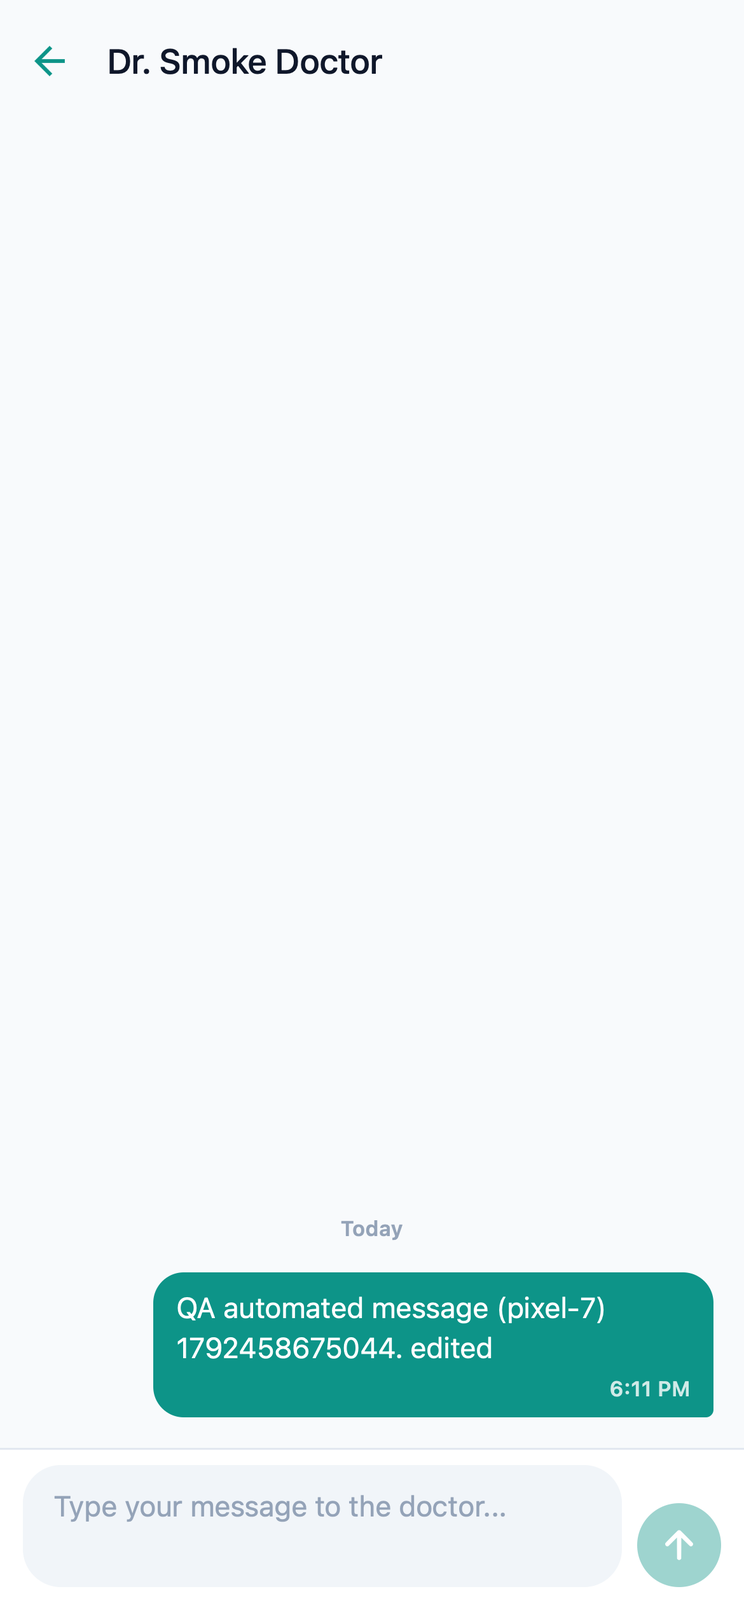
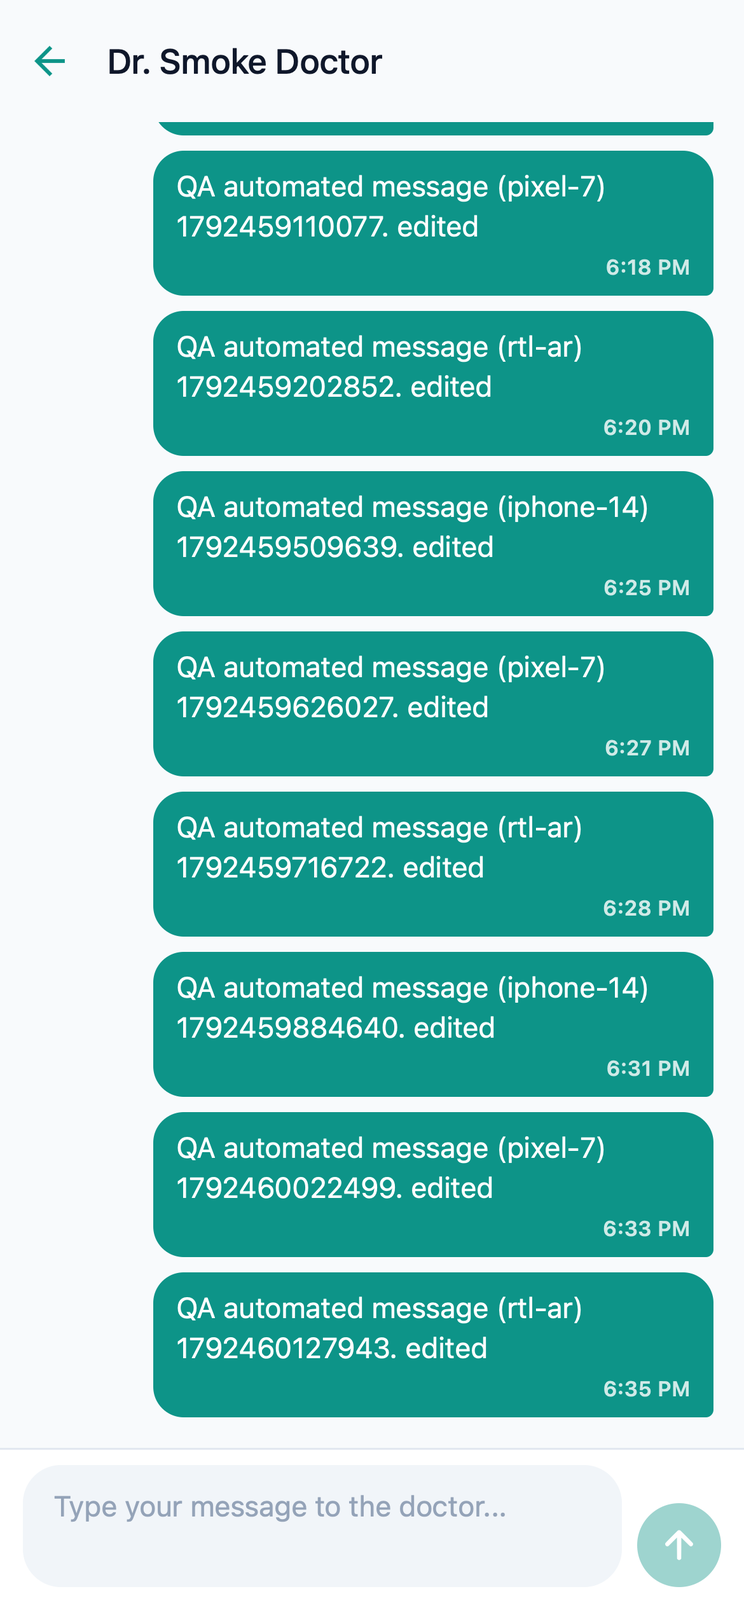
test(mobile-e2e): final full run at c843c4c; report MB-011..MB-016, verify MB-006..MB-009

diff --git a/mobile-e2e/tests/conversation.spec.ts b/mobile-e2e/tests/conversation.spec.ts
@@ -72,10 +72,38 @@ test.describe('Conversation', () => {
 
     await longPress(page, editedBubble);
     await dialog.getByTestId('dialog-btn-1').click();
-    await expect(editedBubble).toHaveCount(0, { timeout: 60_000 });
+    await expect(editedBubble).toHaveCount(0);
+    await expect(screen.getByTestId('btn-undo-delete')).toHaveCount(0, { timeout: 60_000 });
     await page.reload();
-    await expect(page.getByTestId('screen-conversation')).toBeVisible({ timeout: 60_000 });
-    await expect(page.getByTestId('chat-message-own').filter({ hasText: edited })).toHaveCount(0, { timeout: 30_000 });
+    await expect(page.locator('[data-testid^="chat-message-"]').first()).toBeVisible({ timeout: 60_000 });
+    await expect(page.getByTestId('chat-message-own').filter({ hasText: edited })).toHaveCount(0);
+  });
+
+  test('MB-015: a delete still commits when leaving the thread during the undo window', async ({ page }, testInfo) => {
+    test.setTimeout(240_000);
+    const screen = await openFirstConversation(page);
+    const conversationUrl = page.url();
+    const body = `QA undo-window message (${testInfo.project.name}) ${Date.now()}`;
+    await screen.getByTestId('input-message').fill(body);
+    await screen.getByTestId('btn-send-message').click();
+    const bubble = () => page.getByTestId('chat-message-own').filter({ hasText: body });
+    await expect(bubble()).toBeVisible({ timeout: 60_000 });
+
+    await longPress(page, bubble());
+    await page.getByTestId('dialog').getByTestId('dialog-btn-1').click();
+    await expect(bubble()).toHaveCount(0);
+    await page.goBack();
+    await expect(page.getByTestId('screen-messages')).toBeVisible();
+    await page.waitForTimeout(6_000);
+    await page.goto(conversationUrl);
+    await expect(page.locator('[data-testid^="chat-message-"]').first()).toBeVisible({ timeout: 60_000 });
+    const leftover = await bubble().count();
+    if (leftover > 0) {
+      await longPress(page, bubble());
+      await page.getByTestId('dialog').getByTestId('dialog-btn-1').click();
+      await expect(page.getByTestId('btn-undo-delete')).toHaveCount(0, { timeout: 60_000 });
+    }
+    expect(leftover, 'MB-015: the message the patient deleted came back after leaving the thread').toBe(0);
   });
 
   test('unknown conversation id shows a not-found state without a composer (MB-011)', async ({ page }) => {

diff --git a/mobile-e2e/tests/settings.spec.ts b/mobile-e2e/tests/settings.spec.ts
@@ -80,18 +80,30 @@ test.describe('Settings', () => {
     await expect(screen.getByTestId('message-success')).toBeVisible({ timeout: 30_000 });
   });
 
-  test('sign out: cancel keeps the session, confirm returns to sign-in', async ({ page }) => {
+  test('sign out: cancel keeps the session, confirm returns to sign-in and clears cached health data', async ({ page, consoleGuard }, testInfo) => {
+    consoleGuard.allow(/status of 401/);
     await page.route('**/auth/v1/logout**', (route) => route.fulfill({ status: 204, body: '' }));
+    let signedOut = false;
+    const lateRequests: string[] = [];
+    page.on('response', (response) => {
+      if (signedOut && response.status() === 401 && response.url().includes('/rest/v1/')) lateRequests.push(new URL(response.url()).pathname);
+    });
+    await openScreen(page, '/', 'screen-dashboard');
+    await waitForLoaded(page);
     const screen = await openScreen(page, '/settings', 'screen-settings');
     await waitForLoaded(page);
+    expect(await page.evaluate(() => Object.keys(localStorage).some((key) => key.startsWith('ceenaix.cache.v1.')))).toBe(true);
     await screen.getByTestId('btn-sign-out').click();
     const dialog = page.getByTestId('dialog');
     await expect(dialog).toBeVisible();
     await dialog.getByTestId('dialog-btn-cancel').click();
     await expect(screen).toBeVisible();
     await screen.getByTestId('btn-sign-out').click();
+    signedOut = true;
     await dialog.getByTestId('dialog-btn-0').click();
     await expect(page.getByTestId('screen-sign-in')).toBeVisible({ timeout: 60_000 });
+    await expect.poll(() => page.evaluate(() => Object.keys(localStorage).filter((key) => key.startsWith('ceenaix.cache.v1.') || key.startsWith('sb-')))).toEqual([]);
+    if (lateRequests.length > 0) testInfo.annotations.push({ type: 'MB-014', description: `401 after sign-out: ${lateRequests.join(', ')}` });
     await page.goto('/records');
     await expect(page.getByTestId('screen-sign-in')).toBeVisible({ timeout: 60_000 });
   });

diff --git a/mobile-e2e/tests/records.spec.ts b/mobile-e2e/tests/records.spec.ts
@@ -1,4 +1,4 @@
-import { commonScreenChecks, expect, failTables, headerBack, openScreen, test, waitForLoaded } from '../support/fixtures';
+import { commonScreenChecks, expect, failTables, headerBack, isRtlProject, openScreen, test, waitForLoaded } from '../support/fixtures';
 
 test.describe('Medical records', () => {
   test('renders category counts, filter and empty/list state', async ({ page }, testInfo) => {
@@ -8,6 +8,7 @@ test.describe('Medical records', () => {
     await expect(screen.locator('[data-testid^="record-card-"]').first().or(screen.getByTestId('state-empty-records'))).toBeVisible();
     await expect(headerBack(page)).toHaveAccessibleName(/back|رجوع/i);
     await expect(headerBack(page)).not.toHaveAccessibleName(/\(tabs\)/);
+    if (isRtlProject(testInfo)) await expect(headerBack(page), 'MB-016: Arabic back button name should be fully Arabic').not.toHaveAccessibleName(/back/i);
     await commonScreenChecks(page, testInfo, screen, 'records');
   });
 

diff --git a/mobile-e2e/tests/insurance.spec.ts b/mobile-e2e/tests/insurance.spec.ts
@@ -33,6 +33,7 @@ test.describe('Insurance', () => {
     const screen = await openScreen(page, '/insurance', 'screen-insurance');
     await waitForLoaded(page);
     const empty = screen.getByTestId('state-empty-insurance');
+    await expect(screen.getByTestId('card-insurance-coverage').or(empty).first()).toBeVisible({ timeout: 60_000 });
     test.skip((await empty.count()) === 0, 'smoke patient has an insurance plan');
     await empty.getByRole('button').click();
     await expect(page.getByTestId('screen-profile')).toBeVisible();

diff --git a/docs/mobile/test-report.md b/docs/mobile/test-report.md
@@ -4,9 +4,9 @@ QA branch: `mobile-patient-parity-tests` (tracks builder branch `mobile-patient-
 Harness: Playwright against the Expo web export (`mobile/dist`), in `mobile-e2e/` (see `mobile-e2e/README.md`).
 Projects: `iphone-14` (WebKit, 390x844), `pixel-7` (Chromium, 412x915), `rtl-ar` (Chromium, 412x915, locale `ar-AE`).
 
-Last updated: 2026-10-19. Latest builder commit tested: `dc8a230`. Spec totals below cover the auth and tab batch; appointment flows add 14 tests and pre-visit adds 3 per project (all pass except MB-010).
+Last updated: 2026-10-19. **Final run at builder commit `c843c4c` (`BUILD STATUS: COMPLETE`)**: every screen in `docs/mobile/test-handoff.md` was tested at its latest commit, and the full suite was run once on all three projects.
 
-Every test also fails on unexpected console errors or page errors, and every screen spec checks document direction (LTR, or RTL in `rtl-ar`), no horizontal overflow at phone width, and accessible names on interactive controls. Screenshots are in `mobile-e2e/screenshots/{iphone-14,rtl-ar}/`.
+Every test also fails on unexpected console errors or page errors, and every screen spec checks document direction (LTR, or RTL in `rtl-ar`), no horizontal overflow at phone width, and accessible names on interactive controls. Screenshots are in `mobile-e2e/screenshots/{iphone-14,rtl-ar}/` (one per screen) and `mobile-e2e/screenshots/mb-*.png` (bugs).
 
 Environment note: the DEV Supabase project is sometimes slow (2.5–3 s even for `/auth/v1/health`, with individual queries taking 5–10 s at peak). Tests use generous timeouts; this is not treated as an app defect.
 
@@ -14,36 +14,82 @@ Environment note: the DEV Supabase project is sometimes slow (2.5–3 s even for
 
 | Screen | Commit tested | Result | Specs | Notes |
 |---|---|---|---|---|
-| App boot (web) | dc8a230 | pass | all | MB-001, MB-002 and MB-003 fixed-verified. Cold start is blank (MB-008) |
-| Sign in (email + phone OTP mode) | dc8a230 | pass | `tests/auth.spec.ts` | MB-005 fixed-verified. Wrong password, validation, password toggle, links, signed-out redirect |
-| Forgot password | dc8a230 | pass | `tests/auth.spec.ts` | Reset endpoint mocked (no real email) |
-| Phone OTP | dc8a230 | pass | `tests/auth.spec.ts` | SMS endpoints mocked. Wrong code, resend cooldown, digits stay LTR in Arabic |
-| Sign up (email + phone) | dc8a230 | pass | `tests/auth.spec.ts` | Sign-up endpoint mocked (no account created). Every validation step, back, check-email state |
-| Dashboard | dc8a230 | pass | `tests/dashboard.spec.ts` | Real data (greeting, care team: Dr. Smoke Doctor), quick actions, tabs, skeleton, offline banner from cache, error + retry |
-| Appointments (Visits) | dc8a230 | fail (MB-007) | `tests/appointments.spec.ts` | Status/type segments, past virtual visit 901, detail push and back, book, skeleton, error + retry |
-| AI assistant | dc8a230 | pass | `tests/assistant.spec.ts` | Consent allow/deny, context indicator, real `ai-chat` reply tagged "AI-generated", history sheet, new chat. RTL bidi issue (MB-009) |
-| Messages | dc8a230 | pass | `tests/messages.spec.ts` | 1 conversation (builder QA thread), open thread and back, error state. Search only appears with more than 3 threads (by design, skipped) |
-| My health hub | dc8a230 | fail (MB-006) | `tests/health.spec.ts` | All 9 rows open the right screen and back returns |
-| Appointment detail | dc8a230 | pass | `tests/appointment-flows.spec.ts` | Past visit 901 (no cancel/reschedule, follow-up message), upcoming booked visit (reschedule/cancel/pre-visit section), deep-link back, not-found, error + retry |
-| Video visit lobby | dc8a230 | pass (web fallback) | `tests/appointment-flows.spec.ts` | Web shows the "requires the mobile app" state; close works. LiveKit call is native-only, not covered |
-| Book appointment | dc8a230 | pass | `tests/appointment-flows.spec.ts` | Doctor search + empty state, Next gating per step, back, real booking with "Doctor Test" (each project uses a different date). Dr. Smoke Doctor has no published availability in DEV |
-| Reschedule | dc8a230 | pass | `tests/appointment-flows.spec.ts` | Doctor step skipped, reason prefilled, new slot confirmed |
-| Cancel appointment | dc8a230 | pass | `tests/appointment-flows.spec.ts` | Reason required, keep returns, confirm moves the visit to Cancelled. Each run cancels its own booking |
-| Pre-visit intake | dc8a230 | fail (MB-010) | `tests/pre-visit.spec.ts` | DEV has no assessment for the smoke patient and no bookable doctor has a template, so the assessment row is mocked (writes stubbed, AI summary real). Every question type, required gating, back, review, complete, close confirm, not-found |
-| Medical records + record form | c843c4c | pass | `tests/records.spec.ts` | Counts, filter, action sheet (3 types), required-field validation for each category, add/edit/remove a condition (soft delete), error state. Search only appears with more than 5 records (by design). Back button is named "Go back" |
-| Conversation, labs, prescriptions, pharmacy picker, imaging, documents, upload, insurance, notifications, profile, settings, reset password | — | in progress | — | Next batch |
+| App boot (web) | c843c4c | pass | all | MB-001, MB-002, MB-003 and MB-008 fixed-verified: cold start paints a boot screen |
+| Sign in (email + phone OTP mode) | c843c4c | pass | `tests/auth.spec.ts` | MB-005 fixed-verified. Wrong password, validation, password toggle, links, signed-out redirect |
+| Forgot password | c843c4c | pass | `tests/auth.spec.ts` | Reset endpoint mocked (no real email) |
+| Reset password | c843c4c | pass | `tests/reset-password.spec.ts` | Without a recovery session: "request a new link" opens Forgot password. Setting a new password needs a real recovery link (not covered) |
+| Phone OTP | c843c4c | pass | `tests/auth.spec.ts` | SMS endpoints mocked. Wrong code, resend cooldown, digits stay LTR in Arabic |
+| Sign up (email + phone) | c843c4c | pass | `tests/auth.spec.ts` | Sign-up endpoint mocked (no account created). Every validation step, back, check-email state |
+| Onboarding | c843c4c | pass | `tests/role-gates.spec.ts` | Reached by rewriting the profile response to `profile_completed = false` (upserts stubbed). Routes are gated, name and terms validation, save lands on the dashboard |
+| Patient only | c843c4c | pass | `tests/role-gates.spec.ts` | Reached by rewriting the role to `doctor`: gate on every route, web-portal link, sign out. Failed profile lookup shows `state-profile-error`, and retry recovers |
+| Dashboard | c843c4c | pass | `tests/dashboard.spec.ts` | Real data (greeting, care team: Dr. Smoke Doctor), quick actions, tabs, skeleton, boot screen (MB-008), offline banner from cache, error + retry |
+| Appointments (Visits) | c843c4c | pass | `tests/appointments.spec.ts` | MB-007 fixed-verified. Status/type segments, past virtual visit 901, detail push and back, book, skeleton, error + retry |
+| Appointment detail | c843c4c | pass | `tests/appointment-flows.spec.ts` | Past visit 901 (no cancel/reschedule, follow-up message), upcoming booked visit (reschedule/cancel/pre-visit section), deep-link back, not-found, error + retry |
+| Video visit lobby | c843c4c | pass (web fallback) | `tests/appointment-flows.spec.ts` | Web shows the "requires the mobile app" state; close works. LiveKit call is native-only, not covered |
+| Book appointment | c843c4c | pass | `tests/appointment-flows.spec.ts` | Doctor search + empty state, Next gating per step, back, real booking with "Doctor Test" (each project uses a different date). Dr. Smoke Doctor has no published availability in DEV |
+| Reschedule | c843c4c | pass | `tests/appointment-flows.spec.ts` | Doctor step skipped, reason prefilled, new slot confirmed |
+| Cancel appointment | c843c4c | pass | `tests/appointment-flows.spec.ts` | Reason required, keep returns, confirm moves the visit to Cancelled. Each run cancels its own booking |
+| Pre-visit intake | c843c4c | fail (MB-010) | `tests/pre-visit.spec.ts` | DEV has no assessment for the smoke patient and no bookable doctor has a template, so the assessment row is mocked (writes stubbed, AI summary real). Every question type, required gating, back, review, complete, close confirm, not-found |
+| AI assistant + history | c843c4c | pass | `tests/assistant.spec.ts` | MB-009 fixed-verified. Consent allow/deny, context indicator, real `ai-chat` reply tagged "AI-generated", history sheet, new chat |
+| Messages | c843c4c | pass | `tests/messages.spec.ts` | 1 conversation, open thread and back, error state. Search only appears with more than 3 threads (by design, skipped) |
+| Conversation | c843c4c | fail (MB-011, MB-015) | `tests/conversation.spec.ts` | Real send, edit (long-press), delete with undo, and delete; English text is LTR in Arabic (MB-009 verified here). An unknown thread id looks like an empty, writable thread (MB-011). Leaving during the undo window cancels the delete (MB-015) |
+| My health hub | c843c4c | pass | `tests/health.spec.ts` | MB-006 fixed-verified (back is "Go back"). All 9 rows open the right screen and back returns |
+| Medical records + record form | c843c4c | pass (RTL: MB-016) | `tests/records.spec.ts` | Counts, filter, action sheet (3 types), required-field validation for each category, add/edit/remove a condition (soft delete), error state. Search only appears with more than 5 records (by design) |
+| Lab results | c843c4c | pass (empty only) | `tests/lab-results.spec.ts` | Segments with `aria-selected`, empty states, back, error + retry. The smoke patient has no lab orders, so lab detail and "Explain with AI" are not reachable |
+| Prescriptions | c843c4c | pass | `tests/prescriptions.spec.ts` | Segments, empty states, add and remove a self-reported medicine (save gating, cancel/confirm dialog), back, error + retry. No prescriptions in DEV, so prescription detail and the pharmacy picker are not reachable |
+| Imaging | c843c4c | pass (empty only) | `tests/imaging.spec.ts` | Segments, empty state, back, error + retry. No studies in DEV, so imaging detail is not reachable |
+| Documents | c843c4c | fail (MB-013) | `tests/documents.spec.ts` | Segments, list, error + retry. Real upload (iPhone run only) works; removing fails on RLS (MB-013, backend) |
+| Document upload | c843c4c | pass (MB-012 web-only) | `tests/documents.spec.ts` | Camera row hidden on web, file chooser, save gating, files over 20 MB rejected, title prefilled from the file name. No close control on web (MB-012) |
+| Insurance | c843c4c | pass | `tests/insurance.spec.ts` | No-plan state and its Profile action, claims list, status chips, benefits, error + retry. Note: cancelled visits are listed as "Denied" claims and counted in "You paid"; the web app does the same (parity, not filed) |
+| Notifications | c843c4c | pass | `tests/notifications.spec.ts` | Log with All/Unread, mark all read (button hidden when nothing is unread, by design), dashboard bell and back, error + retry. Some notification bodies mix Arabic dates into English text; they are generated by the backend trigger in the language of the session that booked |
+| Profile | c843c4c | pass | `tests/profile.spec.ts` | All sections render real data; edit then cancel discards; empty name blocks save; save keeps the values; dashboard avatar and back |
+| Settings | c843c4c | pass | `tests/settings.spec.ts` | Language switch shows the restart dialog and flips `dir` (then switches back), theme dark/system, email/SMS/pharmacy toggles persist across reload and are restored (iPhone run only), reset-password email (mocked), sign out (cancel/confirm, logout mocked) clears session and cached health data. Intermittent late 401 after sign-out (MB-014) |
 
-### Spec totals at `dc8a230` (auth + tab screens)
+### Final spec totals at `c843c4c` (full suite, all three projects)
+
+Each project runs 99 tests (plus one shared sign-in setup).
 
 | Project | Passed | Failed | Skipped |
 |---|---|---|---|
-| iphone-14 | 34 | 3 (MB-006, MB-007, MB-008) | 2 |
-| pixel-7 | 34 | 3 (MB-006, MB-007, MB-008) | 2 |
-| rtl-ar | 35 | 3 (MB-006, MB-007, MB-008) | 1 |
+| iphone-14 | 93 | 4 (MB-010, MB-011, MB-013, MB-015) | 2 |
+| pixel-7 | 92 | 3 (MB-010, MB-011, MB-015) | 4 |
+| rtl-ar | 92 | 4 (MB-010, MB-011, MB-015, MB-016) | 3 |
+| **Total** | **277** | **11** | **9** |
 
-Skips: an RTL-only test (OTP digit order) skips on the LTR projects, and Messages search skips because the patient has 3 or fewer threads.
+Every failure maps to an open bug below; there were no other failures. The MB-016 assertion (RTL records test) was added right after the full run and re-run on its own; the `rtl-ar` row includes it.
+
+Skips, all intentional:
+- The OTP "digits stay LTR in Arabic" test runs only on `rtl-ar`.
+- Messages search needs more than 3 conversations, and the smoke patient has 1.
+- The real document upload and the shared-preference toggles run only on `iphone-14`. This keeps parallel projects from racing on the same account, and the upload can't be cleaned up while MB-013 is open.
+
+### Test data left in DEV
+
+- Bookings with "Doctor Test": each run books, reschedules and then cancels its own.
+- Conditions, reported medicines and messages: each run removes its own.
+- Profile and preferences: restored to their original values.
+- Vault documents: removal is blocked by MB-013. The smoke patient now has 2 "QA e2e upload …" documents from these runs, plus the builder's 2 "QA upload check" documents. They can be soft-deleted once the policy is fixed.
 
 ## Bugs
+
+| ID | Severity | Screen | Status |
+|---|---|---|---|
+| MB-001 | P1 | Build | fixed-verified |
+| MB-002 | P0 | Root layout | fixed-verified |
+| MB-003 | P1 | Root error boundary | fixed-verified |
+| MB-004 | P3 | Phone OTP | fixed-verified |
+| MB-005 | P1 | Sign-in / root navigator | fixed-verified |
+| MB-006 | P2 | Every pushed screen (header back) | fixed-verified |
+| MB-007 | P3 | Segmented controls | fixed-verified |
+| MB-008 | P3 | Cold start (web) | fixed-verified |
+| MB-009 | P3 | Assistant + conversation (RTL) | fixed-verified |
+| MB-010 | P3 | Pre-visit review | open |
+| MB-011 | P3 | Conversation (unknown id) | open |
+| MB-012 | P3 | Sheet screens (web) | open |
+| MB-013 | P2 | Documents (backend RLS) | open |
+| MB-014 | P3 | Sign out | open |
+| MB-015 | P2 | Conversation (delete) | open |
+| MB-016 | P3 | Every pushed screen, Arabic (header back) | open |
 
 ### MB-001 — Web export fails: `react-dom` / `react-native-web` missing
 - Severity: P1 (blocks all web/Playwright testing)
@@ -86,7 +132,7 @@ Skips: an RTL-only test (OTP digit order) skips on the LTR projects, and Message
 ### MB-006 — Header back button is announced as "(tabs), back"
 - Severity: P2 (accessibility)
 - Screen: every pushed stack screen (records, labs, prescriptions, imaging, documents, insurance, notifications, profile, settings, appointment detail…)
-- Status: open
+- Status: **fixed-verified** in `36949f6` (tested at `c843c4c`): the back button is now named "Go back" on every pushed screen instead of "(tabs), back". In Arabic it is still "رجوع, back"; that leftover is MB-016
 - Steps: Health tab → Records; inspect the header back control (or use VoiceOver/TalkBack).
 - Expected: an accessible name such as "Back" or "Back to My Health".
 - Actual: the accessible name is `(tabs), back`; the native-stack back button uses the previous route's name, which is the `(tabs)` group. On native the back title has the same source.
@@ -97,7 +143,7 @@ Skips: an RTL-only test (OTP digit order) skips on the LTR projects, and Message
 ### MB-007 — Segmented controls do not expose the selected segment on web
 - Severity: P3 (accessibility, web)
 - Screen: all `SegmentedControl` users (visits, records, labs, prescriptions, imaging, documents, insurance, notifications, settings, sign-in mode)
-- Status: open
+- Status: **fixed-verified** in `faa44e9` (tested at `c843c4c`): segments, booking choices and pre-visit options expose `aria-selected` / `aria-checked`
 - Steps: Visits tab; inspect `segment-appointments-status-upcoming`.
 - Expected: `aria-selected="true"` on the selected `role="tab"` (as the bottom tabs already do).
 - Actual: no `aria-selected` on any segment. react-native-web 0.21 does not map `accessibilityState.selected`.
@@ -108,7 +154,7 @@ Skips: an RTL-only test (OTP digit order) skips on the LTR projects, and Message
 ### MB-008 — Cold start on web is a blank white page while the session and profile load
 - Severity: P3 (web only; native shows the splash screen)
 - Screen: root layout (`RootNavigator` returns `null` while `isLoading`)
-- Status: open
+- Status: **fixed-verified** in `c6cae45` (tested at `c843c4c`): the boot screen (`state-loading`) paints during the slow session/profile load
 - Steps: open any route with a stored session on a slow network (the spec delays Supabase REST by 6 s).
 - Expected: a branded loading state or skeleton.
 - Actual: nothing is painted for the whole auth + profile load (about 10 s on DEV at peak).
@@ -119,7 +165,7 @@ Skips: an RTL-only test (OTP digit order) skips on the LTR projects, and Message
 ### MB-009 — In Arabic, English chat text has its punctuation on the wrong side
 - Severity: P3 (RTL)
 - Screen: AI assistant (user and assistant bubbles); likely conversation bubbles too
-- Status: open
+- Status: **fixed-verified** in `417d1cb` (tested at `c843c4c`): in `rtl-ar`, an English conversation message has computed `direction: ltr`. The assistant bubbles use the same `contentDirection` helper (code review)
 - Steps: language Arabic; ask the assistant an English question.
 - Expected: Latin-script content keeps its own direction ("…per minute.").
 - Actual: the bubble text inherits RTL, so the trailing "." / "?" renders at the start (".ranges from 60 to 100 beats per minute", "?resting heart rate").
@@ -129,7 +175,7 @@ Skips: an RTL-only test (OTP digit order) skips on the LTR projects, and Message
 ### MB-010 — Pre-visit review shows raw option values instead of labels
 - Severity: P3
 - Screen: Pre-visit intake › review step (`mobile/src/app/(app)/pre-visit/[id].tsx`, review card renders `answer.answerText`)
-- Status: open
+- Status: open (still reproduces at `c843c4c`)
 - Steps: answer a single-select question with option label "Mild" (value `mild`) and a multi-select with "Cough" (`cough`); open the review.
 - Expected: "Mild", "Cough" (the labels the patient picked, localized).
 - Actual: "mild", "cough" (stored values). Yes/no answers display correctly.
@@ -137,6 +183,92 @@ Skips: an RTL-only test (OTP digit order) skips on the LTR projects, and Message
 - Spec: `tests/pre-visit.spec.ts` (soft assertions tagged MB-010)
 - Screenshot: `mobile-e2e/screenshots/mb-010-previsit-review-values.png`
 
+### MB-011 — Unknown conversation id shows an empty, writable thread
+- Severity: P3
+- Screen: Conversation (`/conversation/<id>`)
+- Status: open
+- Steps: open `/conversation/00000000-0000-4000-8000-000000000000` (or a stale deep link or push to a conversation the patient can't access).
+- Expected: a not-found state, like appointment detail and pre-visit have, with no composer.
+- Actual: the screen shows "No messages in this thread yet" with an active composer and the generic "Messages" title. The read-receipt RPC `mark_conversation_messages_read` fails with 400 "Conversation not found." (a console error).
+- Fix: when the conversation isn't in `useConversationList` (and the thread query returns nothing), render a not-found `EmptyState`, hide the composer, and skip the mark-read RPC.
+- Spec: `tests/conversation.spec.ts` › "unknown conversation id … (MB-011)"
+- Screenshot: `mobile-e2e/screenshots/mb-011-unknown-conversation.png`
+
+### MB-012 — Sheet screens have no close control on web
+- Severity: P3 (web only; native has swipe-down and the grabber)
+- Screen: every `formSheet` route with `headerShown: false`: document upload, record form, cancel appointment, pharmacy picker, assistant history
+- Status: open
+- Steps: Documents › Upload.
+- Expected: a visible Close/Cancel control, or a header with a back button, as the pushed screens have.
+- Actual: on web the only way out is the browser's back button. On native, VoiceOver and TalkBack users also benefit from an explicit close button.
+- Fix: add a small sheet header with a close `IconButton` (with an accessibility label) on these screens, at least when `Platform.OS === 'web'`.
+- Screenshot: `mobile-e2e/screenshots/mb-012-sheet-no-close.png`
+
+### MB-013 — Removing a vault document fails: RLS on `patient_document_files`
+- Severity: P2 (backend; same on the web app; already listed as a builder blocker)
+- Screen: Documents
+- Status: open (backend policy, not fixable in `mobile/`)
+- Steps: upload a document, then Remove › confirm.
+- Expected: the document is soft-deleted and disappears.
+- Actual: 403 with `new row violates row-level security policy for table "patient_document_files"`; the document stays.
+- Fix: the UPDATE policy on `patient_document_files` needs a `WITH CHECK` that allows the owner to set `is_deleted = true` / `deleted_at` (the soft-deleted row probably fails a `USING`/`WITH CHECK` that filters `is_deleted = false`).
+- Spec: `tests/documents.spec.ts` › "uploads a real PDF to the vault and tries to remove it" (iPhone run)
+- Screenshot: `mobile-e2e/screenshots/mb-013-document-remove-rls.png`
+
+### MB-014 — After sign-out, a stale dashboard query fires and gets 401
+- Severity: P3 (intermittent; about 1 in 3 sign-outs)
+- Screen: Settings › Sign out
+- Status: open
+- Steps: open the dashboard, then Settings › Sign out › confirm.
+- Expected: no data requests after the session is cleared.
+- Actual: sometimes a `user_profiles` lookup for the care-team doctors runs after sign-out and returns 401 (a console error). The URL also passes through `/(auth)` before `/sign-in`. Session and cached health data (`ceenaix.cache.v1.*`) are correctly cleared.
+- Fix: cancel or ignore in-flight queries when the session becomes null (for example, gate hooks on `user` and abort on sign-out), and redirect straight to `/sign-in`.
+- Spec: `tests/settings.spec.ts` › "sign out …". It records an `MB-014` annotation when the 401 occurs instead of failing intermittently.
+
+### MB-015 — Leaving a thread during the 5-second undo window silently cancels a message delete
+- Severity: P2 (the patient believes a message is deleted, but the doctor still sees it)
+- Screen: Conversation
+- Status: open
+- Steps: long-press your own message › Delete; within 5 s tap back (or the app is backgrounded/killed); reopen the thread.
+- Expected: the delete commits (or the undo bar says it was cancelled).
+- Actual: the message is still there. The unmount cleanup in `conversation/[id].tsx` calls `clearTimeout(undoTimer)` without running the pending `thread.remove`.
+- Fix: on unmount, flush the pending delete (call `thread.remove(pendingDelete)`) instead of only clearing the timer.
+- Spec: `tests/conversation.spec.ts` › "MB-015: …" (cleans up its own message)
+- Screenshot: `mobile-e2e/screenshots/mb-015-delete-reappears.png`
+
+### MB-016 — In Arabic, the header back button is announced as "رجوع, back"
+- Severity: P3 (accessibility, RTL)
+- Screen: every pushed stack screen
+- Status: open
+- Steps: language Arabic; Health › Records; inspect the header back control (or use TalkBack/VoiceOver in Arabic).
+- Expected: a fully Arabic name, such as "رجوع".
+- Actual: `رجوع, back`. The native-stack header appends the English word "back" to the localized back title.
+- Fix: set `headerBackAccessibilityLabel: t('m.common.back')` in the `(app)` stack `screenOptions`, next to `headerBackTitle`.
+- Spec: `tests/records.spec.ts` › "renders category counts…" (RTL assertion tagged MB-016)
+- Screenshot: `mobile-e2e/screenshots/mb-016-arabic-back-label.png`
+
 ## Not testable in Playwright (native-only)
 
-Tracked as "native-only, not covered", not failures: LiveKit native video, camera / image-picker capture, biometric app lock (`expo-local-authentication`), push notifications, haptics, native share sheet, native sheets/detents and swipe-back gestures.
+Tracked as "native-only, not covered", not failures:
+- LiveKit native video calls (the web build shows the "requires the mobile app" state, which is tested)
+- camera capture and the native image picker
+- the biometric app lock (`expo-local-authentication`)
+- push notification registration, delivery and deep-link taps
+- haptics
+- the native share sheet (insurance card, imaging, document links)
+- native `formSheet` detents, the grabber and swipe-to-dismiss
+- the iOS swipe-back gesture and the Android hardware back button
+- long-press menus with VoiceOver and TalkBack, and real screen-reader announcements
+- keyboard avoidance
+
+Data gaps in DEV (also not covered):
+- lab result detail and "Explain with AI"
+- prescription detail and the pharmacy picker
+- imaging detail
+- a real pre-visit template
+- setting a new password from a real recovery link
+
+**Recommendation:** add a small Maestro suite (or Detox) that runs on an EAS development build, on an iOS simulator and an Android emulator.
+- It should cover sign-in with biometric unlock, a LiveKit join against a DEV virtual appointment, camera and library uploads, push registration plus a notification tap deep link, sheet dismissal and swipe-back, and share sheets.
+- Reuse the existing `testID`s (Maestro `id:` selectors map directly).
+- Seed DEV with one lab order, one prescription with a pharmacy, one imaging study, and a pre-visit template for "Doctor Test", so the detail screens can be covered in both suites.
